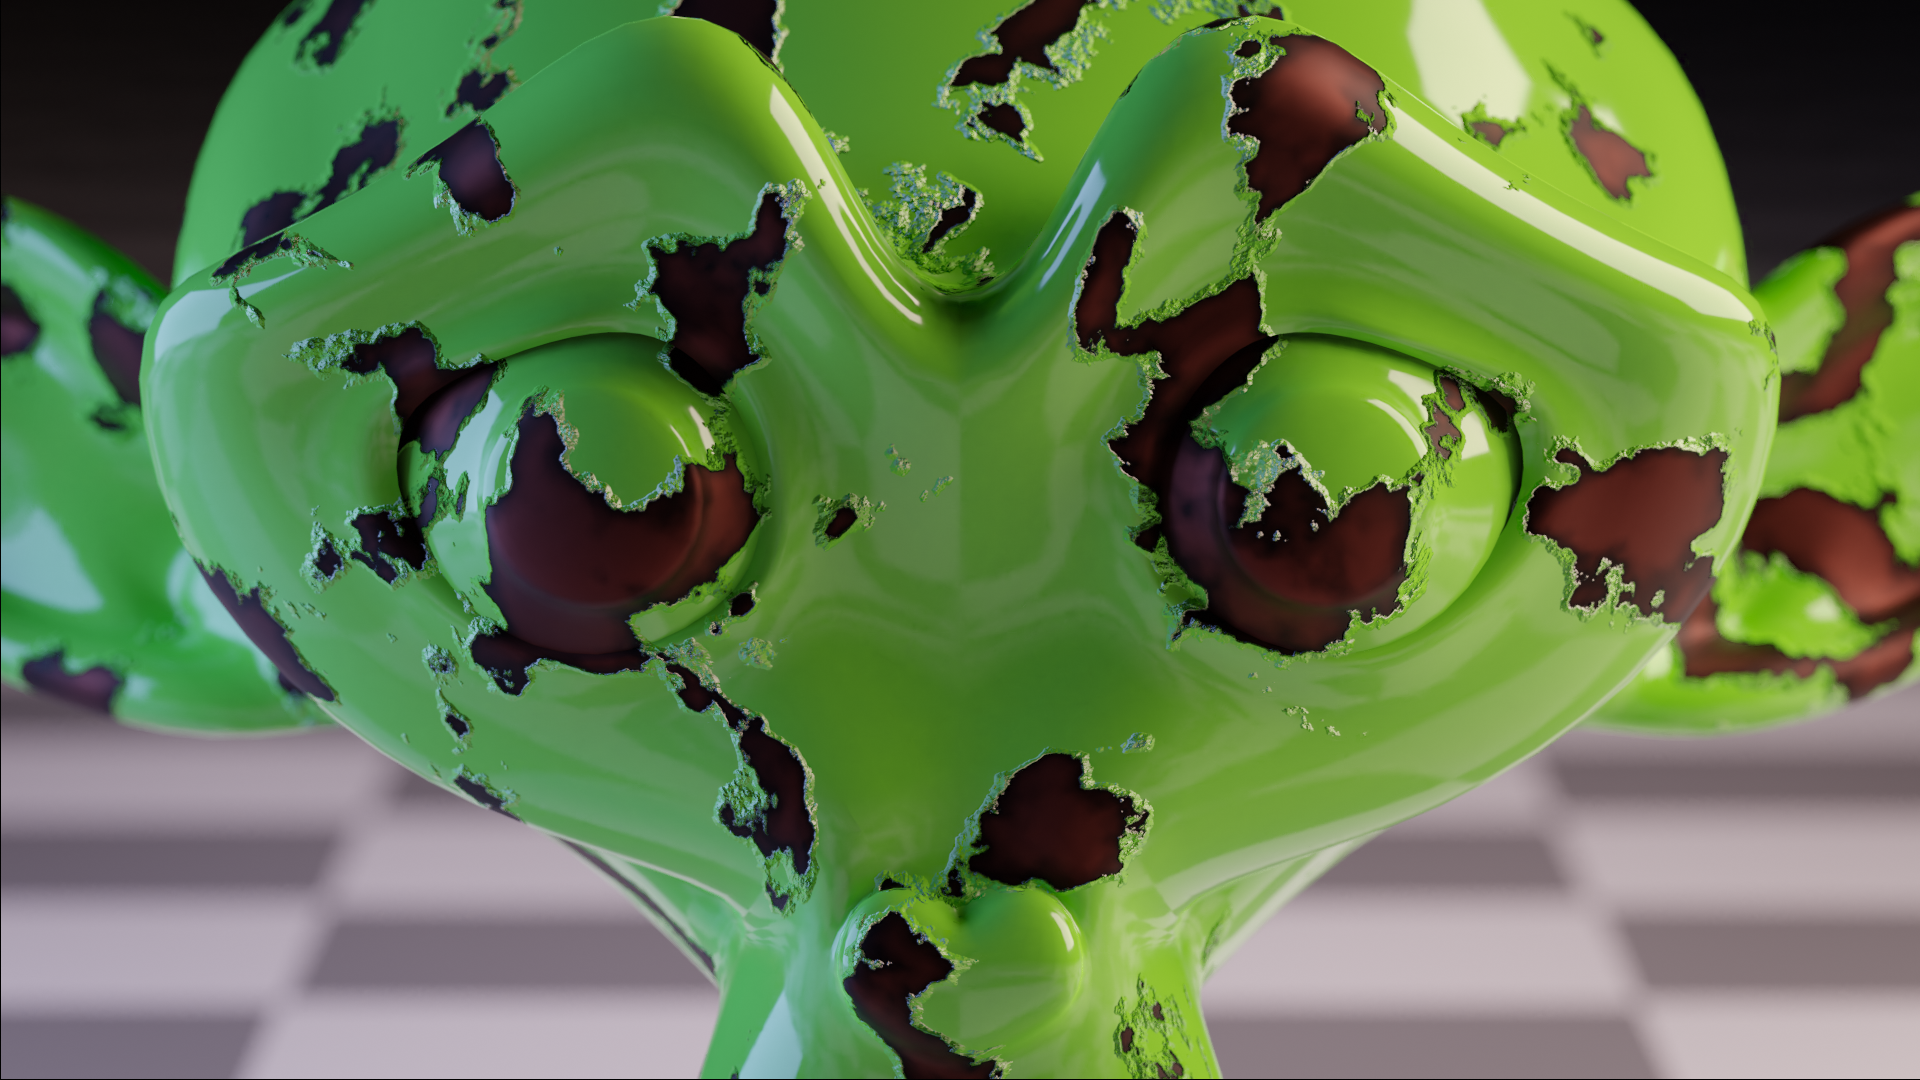
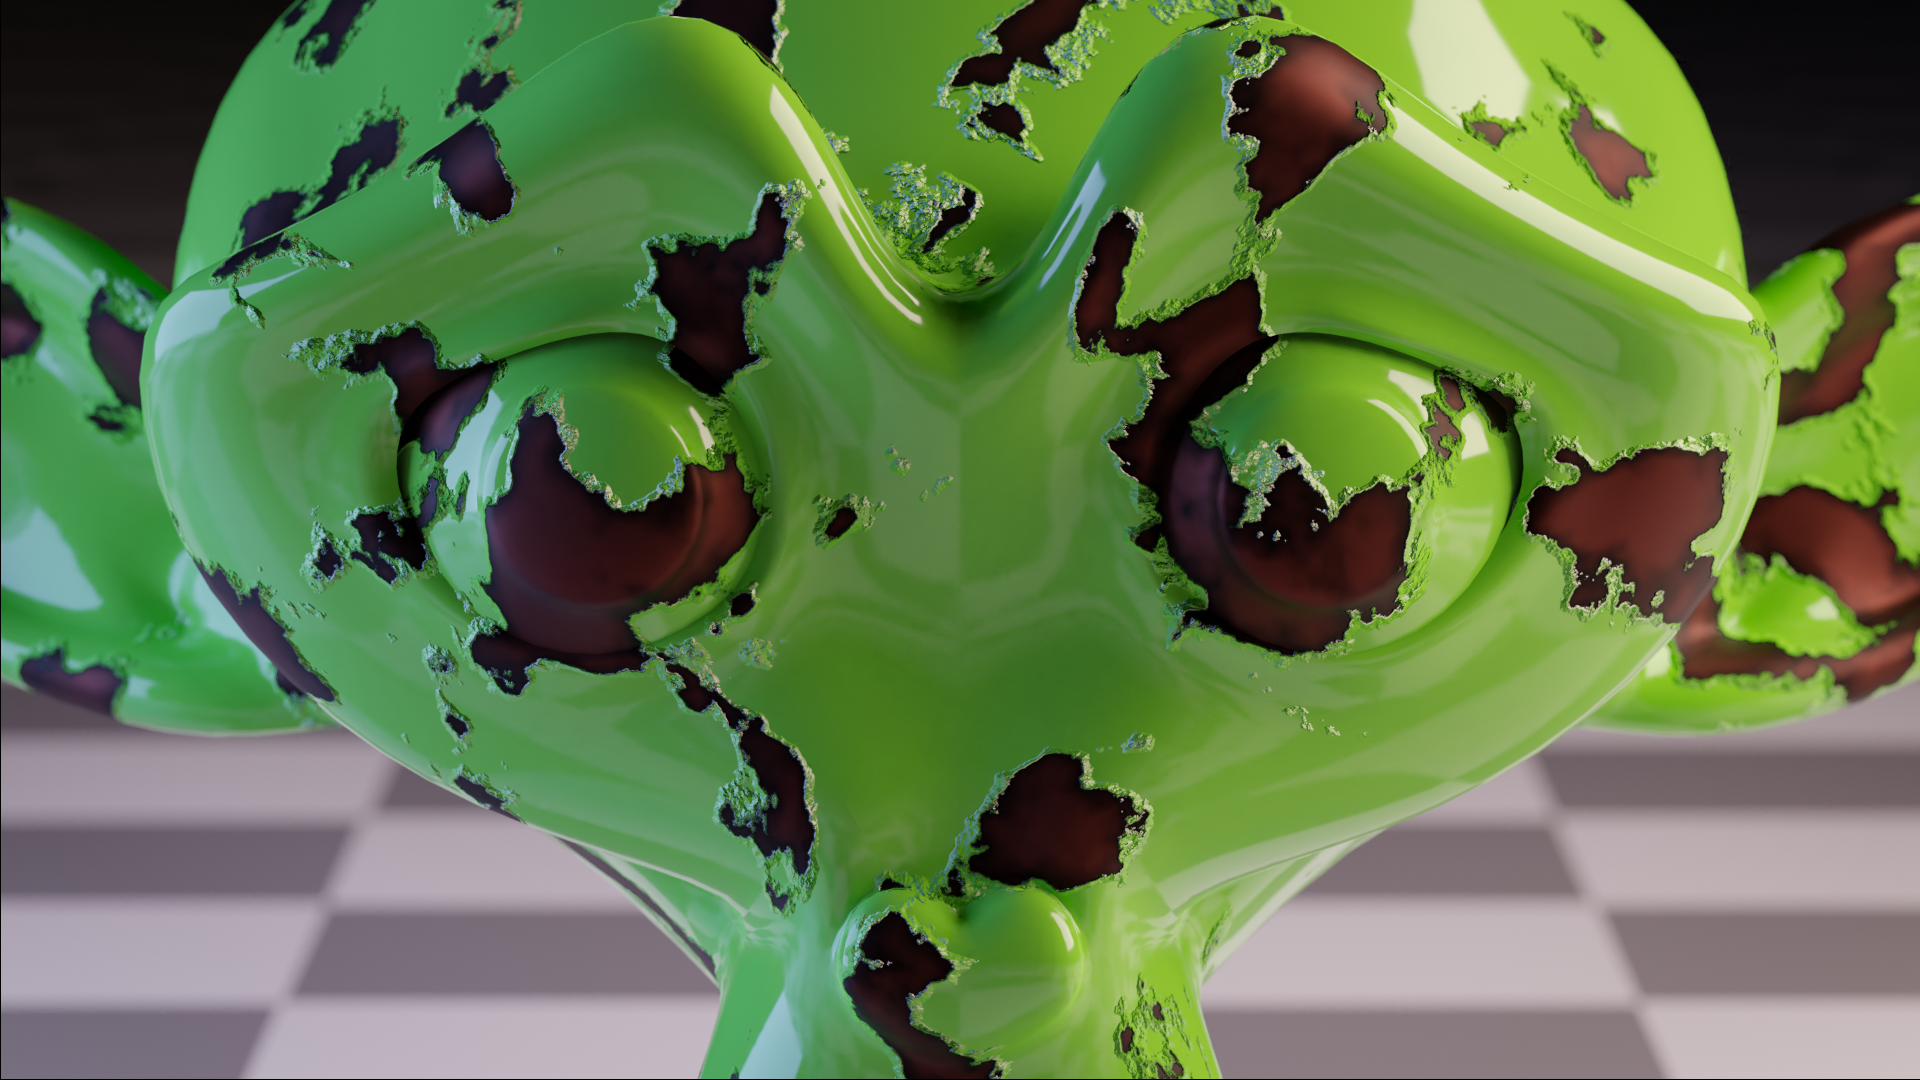
Reduce the bokeh in the procedural texturing scene

diff --git a/14_procedural_texturing.py b/14_procedural_texturing.py
@@ -68,7 +68,7 @@ focus_target_object = set_scene_objects()
 camera_object = utils.create_camera(location=(0.0, -10.0, 2.2))
 
 utils.add_track_to_constraint(camera_object, focus_target_object)
-utils.set_camera_params(camera_object.data, focus_target_object, lens=180.0)
+utils.set_camera_params(camera_object.data, focus_target_object, lens=180.0, fstop=2.4)
 
 ## Background
 utils.build_rgb_background(world, rgb=(0.0, 0.0, 0.0, 1.0))
